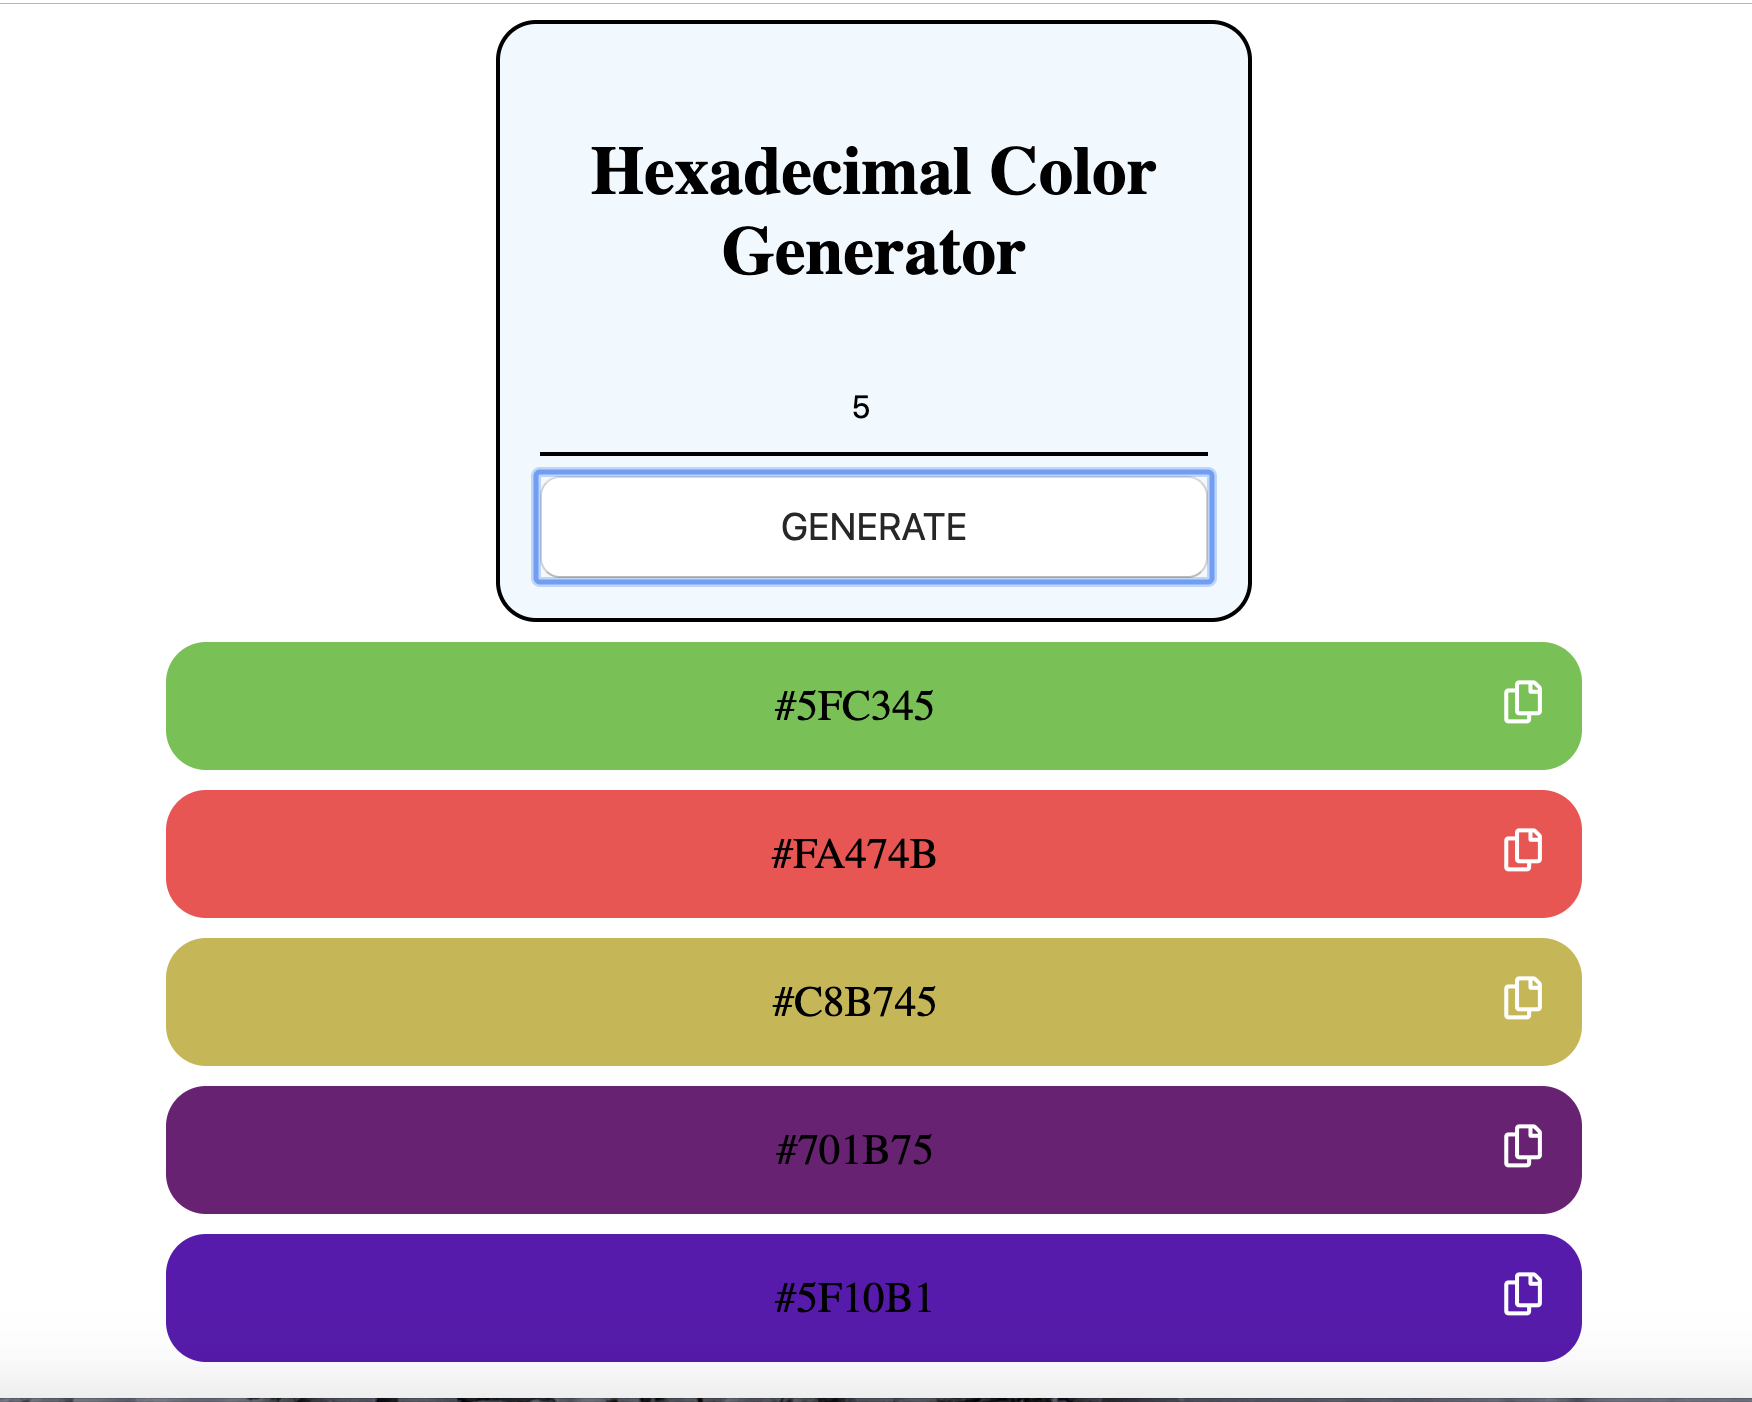
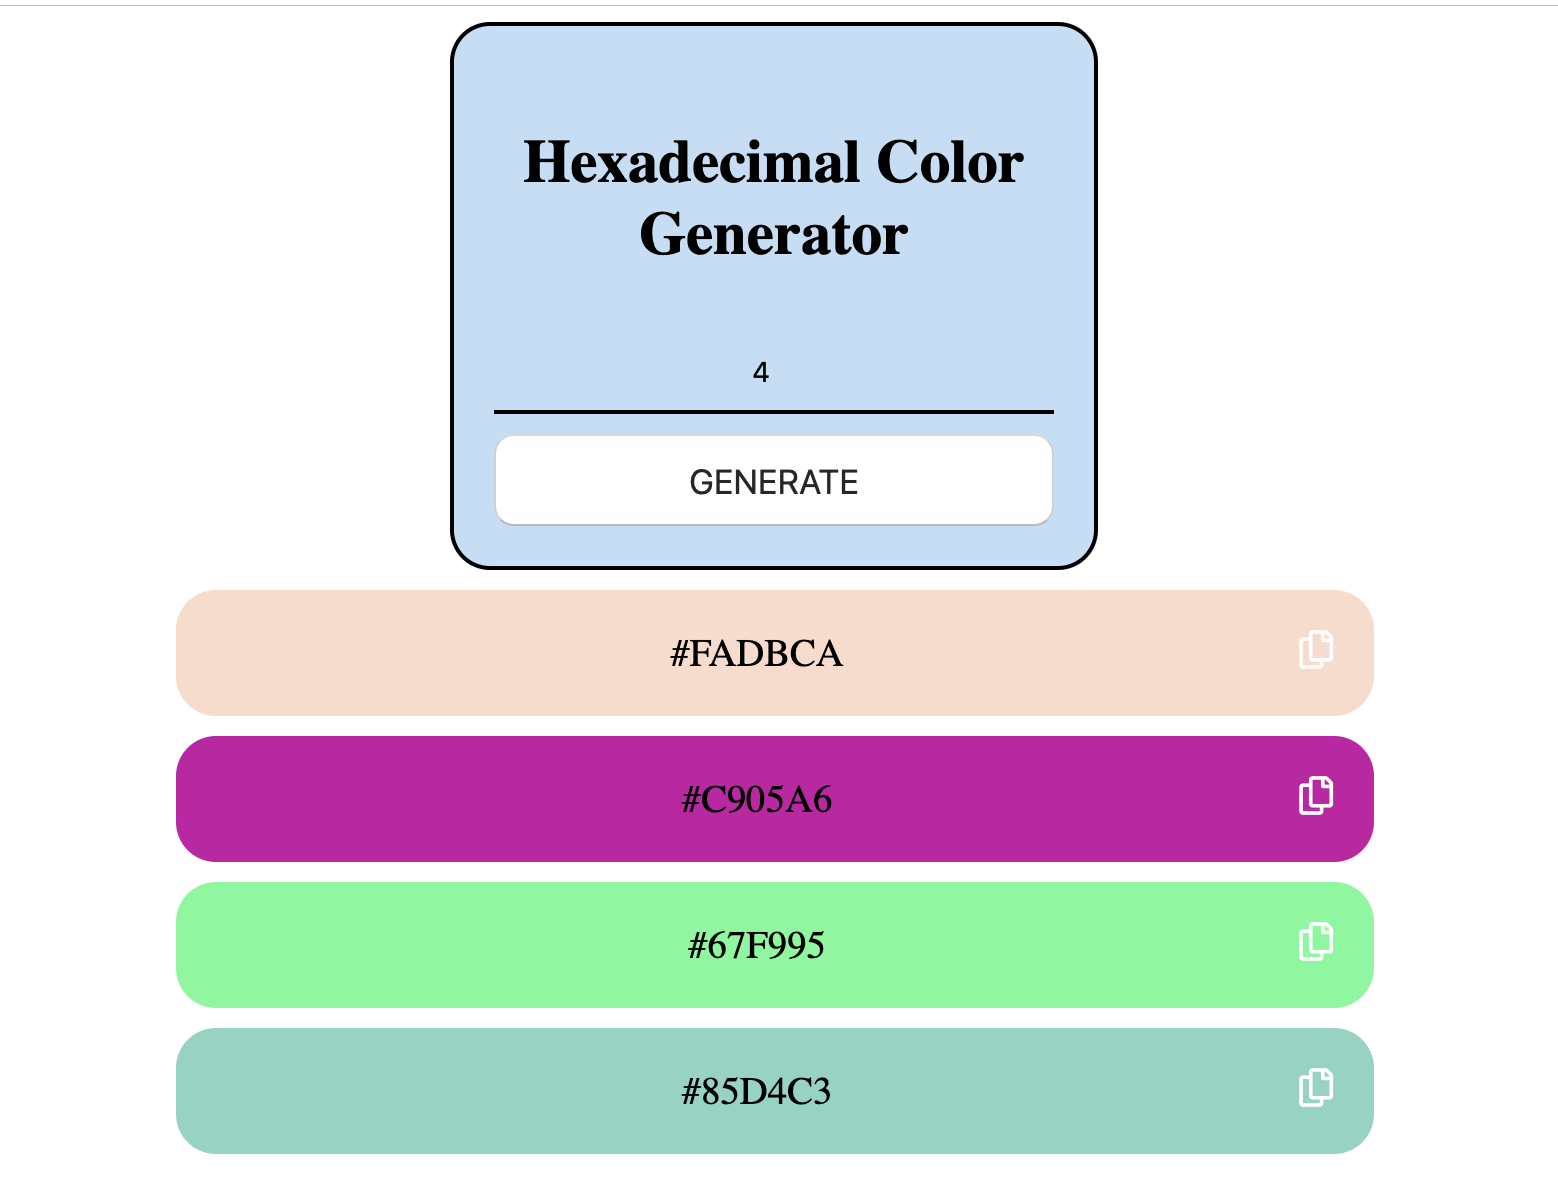
modified the readme file

diff --git a/colorGeneratorIndex.html b/colorGeneratorIndex.html
@@ -32,7 +32,7 @@
         div.control{
             border: 2px solid black;
             border-radius: 20px;
-            background-color: aliceblue;
+            background-color: #c1def7;
             margin: auto;
             padding: 20px;
             width: 25%;
@@ -46,7 +46,7 @@
 
         div.control input{
             padding: 1vw;
-            background-color: aliceblue;
+            background-color: #c1def7;
             border: none;
             border-bottom: 2px solid black;
             text-align: center;
@@ -71,7 +71,7 @@
     <main class="container">
 
     </main>
-    <script src="/colorGenScript.js"></script>
+    <script src="colorGenScript.js"></script>
 </body>
 
 </html>
